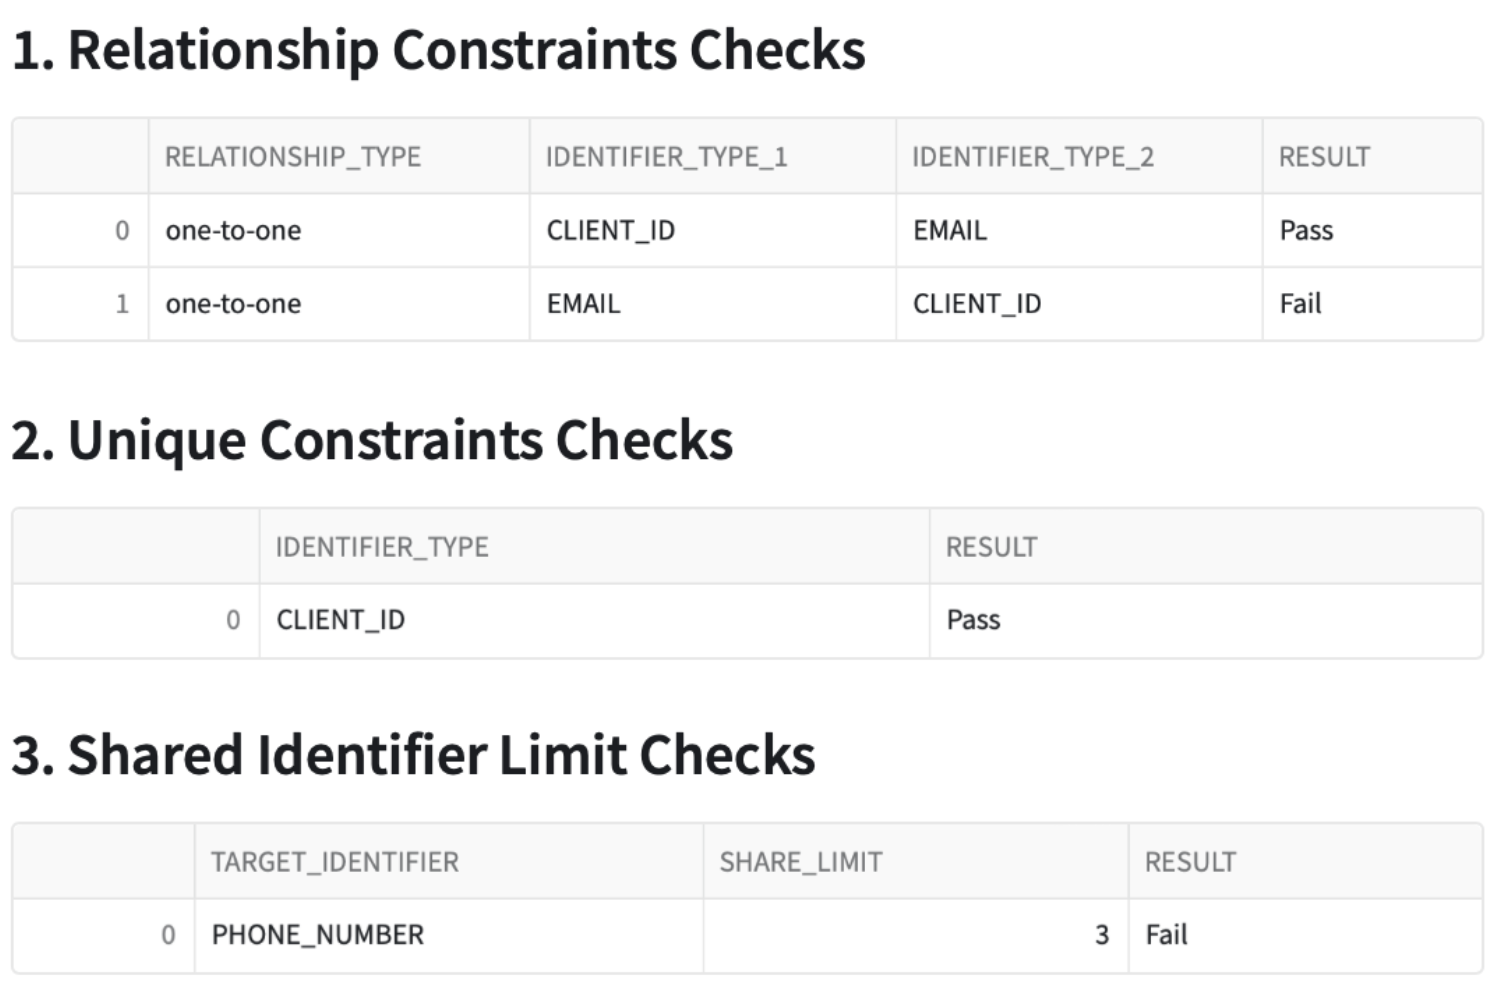
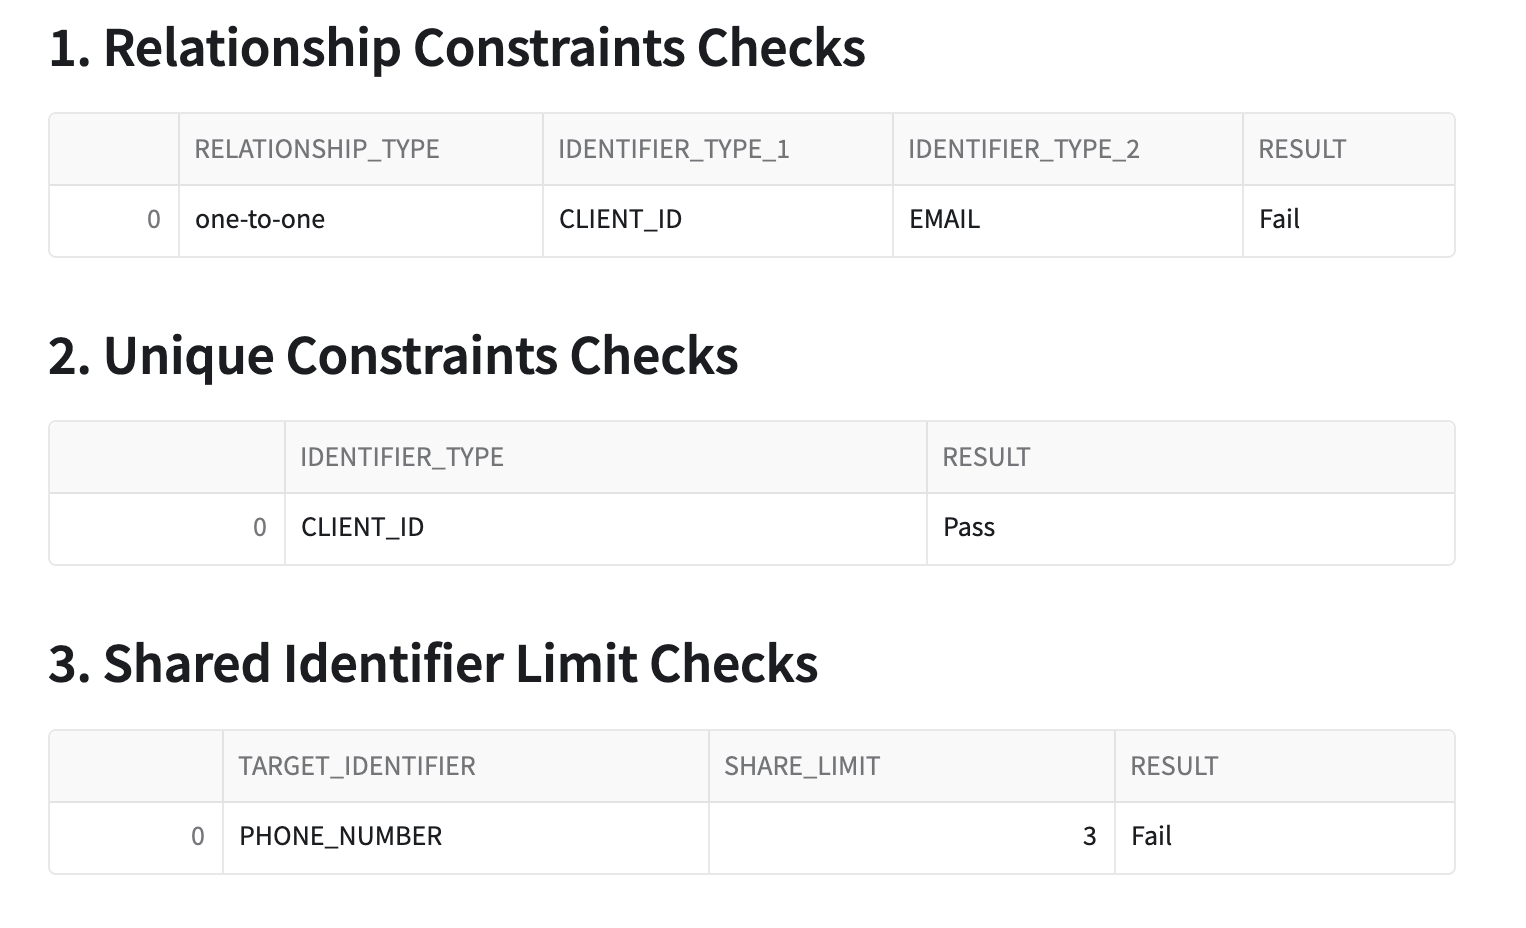
update input table pic, update to account for bidirectional one-to-one constraint

diff --git a/site/sfguides/src/validate_your_customer_identity_model_with_identityqa/validate_your_customer_identity_model_with_identityqa.md b/site/sfguides/src/validate_your_customer_identity_model_with_identityqa/validate_your_customer_identity_model_with_identityqa.md
@@ -155,7 +155,6 @@ Once you've configured your identifiers, you can set certain constraints (or ass
 
 ```
 CALL <CHOSEN APP NAME>.APP.SET_RELATIONSHIP_CONSTRAINT('<RELATIONSHIP_TYPE>', '<IDENTIFIER_1>', '<IDENTIFIER_2>');
-CALL <CHOSEN APP NAME>.APP.SET_RELATIONSHIP_CONSTRAINT('<RELATIONSHIP_TYPE>', '<IDENTIFIER_2>', '<IDENTIFIER_1>');
 
 ```
 
@@ -163,17 +162,12 @@ CALL <CHOSEN APP NAME>.APP.SET_RELATIONSHIP_CONSTRAINT('<RELATIONSHIP_TYPE>', '<
 - **IDENTIFIER_1** is the name of the first identifier for which you’re validating the relationship type.
 - **IDENTIFIER_2** is the name of the second identifier for which you’re validating the relationship type.
 
-> aside negative
-> 
-> NOTE: If you want to check the 1:1 relationship going both ways, make sure you set two relationship constraints. If you only check the 1:1 relationship going one way (e.g. 1 user_id per email address only), you may get a false positive in the report. In this case, you would also want to check for 1 email address per user_id.
-
 #### **SET_RELATIONSHIP_CONSTRAINT EXAMPLE QUERY:**
 
 The query below tells the application to validate whether or not **user_id** and **email** truly have a 1:1 relationship. If there are instances where the 1:1 relationship constraint is invalidated, the app flags them in the generated report.
 
 ```
-CALL SIMONIDQA.APP.SET_RELATIONSHIP_CONSTRAINT('ONE-TO-ONE', 'USER_ID', 'EMAIL_ADDR');
-CALL SIMONIDQA.APP.SET_RELATIONSHIP_CONSTRAINT('ONE-TO-ONE', 'EMAIL_ADDR', 'USER_ID');
+CALL SIMONIDQA.APP.SET_RELATIONSHIP_CONSTRAINT('ONE-TO-ONE', 'CLIENT_ID', 'EMAIL');
 ```
 
 ### **SET_UNIQUE_CONSTRAINT**
@@ -280,7 +274,7 @@ The top of the report shows you the name of the input table you configured as we
 
 Next, the report will show pass/fail statuses on the constraints you configured.  
 
-As you can see in the screenshot below, the **client_id** & **email** identifiers passed the 1:1 relationship check going one way but not the other.  This tells you that for every **client_id** there is only one **email**, but the app found instances where an **email** had more than one **client_id**.  Examples of these failures will be explored later.
+As you can see in the screenshot below, the **client_id** & **email** identifiers did not pass the 1:1 relationship check.  This tells you that the app found instances where an email or client_id had more than one of the other identifier.  Examples of these failures will be explored later.
 
 ![constraint checks](assets/constraint_checks.png)
 
